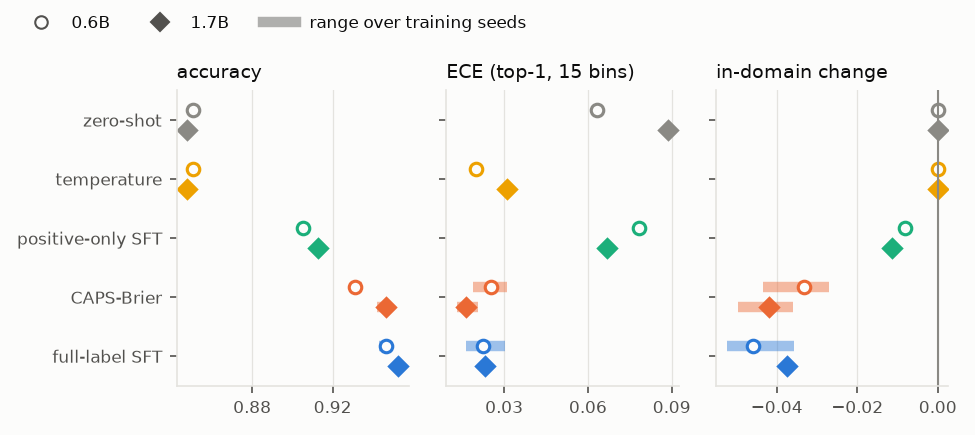
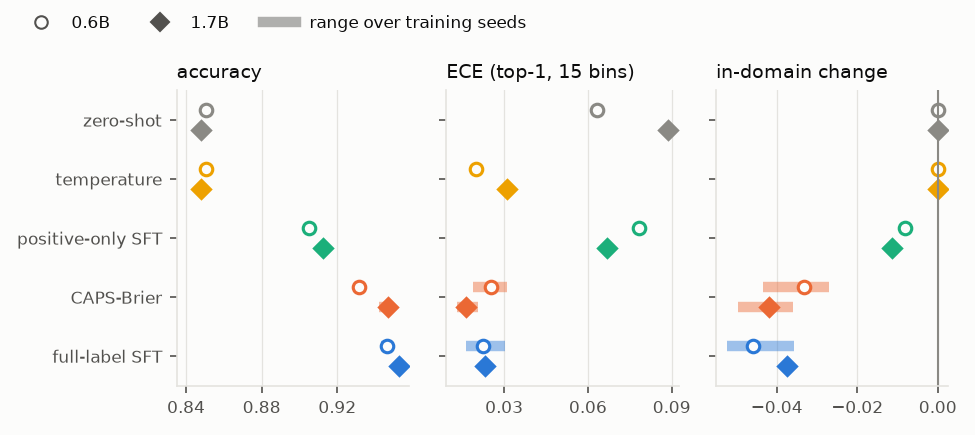
paper: figure labels, continued cross-entropy and a .84 accuracy tick
make_figures.py --paper: the full-label arms figure names sft_cont
continued cross-entropy, as the paper's Section 4.2 and Table A.6.1 do, and
the scale figure's accuracy panel gets a tick at .84 left of zero-shot and
temperature. Only v2_arm_ece.png and v4_scale.png change; the report
figures are byte-identical.

diff --git a/scripts/make_figures.py b/scripts/make_figures.py
@@ -84,7 +84,7 @@ PAPER_NAMES = {
     "zero_shot": "zero-shot", "temperature": "temperature", "positive_sft": "positive-only SFT", "full_sft": "full-label SFT",
     "direct_brier": "CAPS-Brier", "direct_brier_temp": "CAPS-Brier + temperature", "direct_log": "CAPS-log",
     "ips_positive": "IPS positive-only SFT", "ips_log": "IPS CAPS-log", "outcome_minus_p_log": "REINFORCE, reward r - p",
-    "sft_cont": "more cross-entropy", "outcome": "REINFORCE, reward r", "outcome_minus_p": "REINFORCE, reward r - p",
+    "sft_cont": "continued cross-entropy", "outcome": "REINFORCE, reward r", "outcome_minus_p": "REINFORCE, reward r - p",
     "sft": "SFT", "sft_temp": "SFT + temperature",
 }
 
@@ -681,6 +681,10 @@ def scale_paper(stages: dict[str, dict[str, Any]], colors: dict[str, str], out: 
         ax.grid(axis="y", visible=False)
         ax.set_title(label, loc="left")
         ax.xaxis.set_major_locator(matplotlib.ticker.MaxNLocator(3))
+    # accuracy: a tick left of zero-shot and temperature (near .85) beside the automatic .88 and .92
+    left, right = axes[0].get_xlim()
+    axes[0].set_xticks([t for t in (0.84, 0.88, 0.92, 0.96) if t <= right])
+    axes[0].set_xlim(min(left, 0.835), right)
     axes[0].set_yticks(range(len(SCALE)), [PAPER_NAMES[key] for key, _ in SCALE])
     axes[0].set_ylim(len(SCALE) - 0.5, -0.5)
     handles = [axes[0].plot([], [], marker="o", markersize=6, markerfacecolor=SURFACE, markeredgecolor=INK_2, linestyle="none", label="0.6B")[0],
